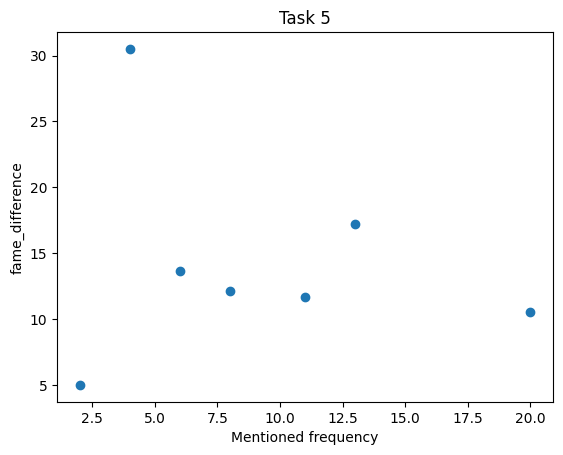
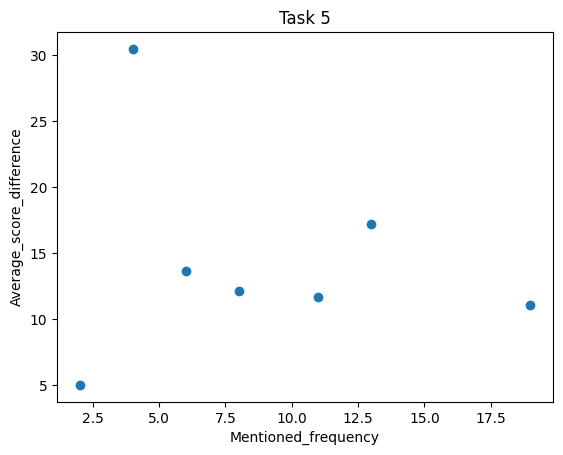
2

diff --git a/main.py b/main.py
@@ -15,6 +15,10 @@ task1_writer = csv.writer(task1)
 task1_writer.writerow(["url", "headline"])
 
 # ================ Task 2 setup ================ #
+# max rugby score is 356
+highest_possible_rugby_score = 356
+# impossible score under rugby rule, see report for prove
+impossible_score = [1,2,4]
 task2 = open("task2.csv", 'w', newline='')
 task2_writer = csv.writer(task2)
 task2_writer.writerow(["url", "headline", "team", "score"])
@@ -83,19 +87,29 @@ while to_visit:
             last_team_index = index
     # save all scores appeared in webpage
     results = score_pattern.findall(article)
+    # check the validity of the score
+    scores = []
+    for score in results:
+        score = re.sub('\s', '', score)
+        t1 = int(score[0:score.find('-')])
+        t2 = int(score[score.find('-') + 1:len(score)])
+        # Check if the score is valid
+        if t1 <= highest_possible_rugby_score and t2 <= highest_possible_rugby_score and t1 not in impossible_score \
+                and t2 not in impossible_score:
+            scores.append([t1, t2])
+
     # find the best score for team 1
     largest_match_score = ""
     largest_sum = -1
     difference = -1
     # if the page is considered valid with team name and score
-    if first_mentioned_team != '' and len(results) > 0:
+    if first_mentioned_team != '' and len(scores) > 0:
         # increase the mention frequency counter by one
         mention_freq[first_mentioned_team] = mention_freq[first_mentioned_team] + 1
-        for score in results:
-            score = re.sub('\s', '', score)
+        for score in scores:
             # extract two scores
-            t1 = int(score[0:score.find('-')])
-            t2 = int(score[score.find('-') + 1:len(score)])
+            t1 = score[0]
+            t2 = score[1]
             # task 2
             if t1 + t2 > largest_sum:
                 largest_match_score = score
@@ -106,7 +120,8 @@ while to_visit:
             game_difference[first_mentioned_team] = [0, 0]
         game_difference[first_mentioned_team][0] += difference
         game_difference[first_mentioned_team][1] += 1
-        task2_writer.writerow([link, headline, first_mentioned_team, largest_match_score])
+        task2_writer.writerow([link, headline, first_mentioned_team, str(largest_match_score[0]) + "-" +
+                               str(largest_match_score[1])])
 
     # mark the item as visited, i.e., add to visited list, remove from to_visit
     visited[link] = True
@@ -131,17 +146,17 @@ frequency_data = pd.DataFrame({'frequency': mention_freq_series})
 frequency_data = frequency_data.sort_values(by='frequency', ascending=False).head(5)
 plt.xticks(rotation='vertical')
 plt.bar(frequency_data.index, frequency_data['frequency'])
-plt.xlabel('Team name')
-plt.ylabel('Mentioned frequency')
+plt.xlabel('Team_name')
+plt.ylabel('Mentioned_frequency')
 plt.title("Task 4")
 plt.savefig("task4.png", bbox_inches='tight')
 plt.clf()
 # Task 5 plot
 game_difference_series = pd.Series(game_difference)
-frequency_score_data = pd.DataFrame({'frequency':mention_freq_series , 'score difference':game_difference_series})
-plt.scatter(frequency_score_data['frequency'], frequency_score_data['score difference'])
-plt.xlabel('Mentioned frequency')
-plt.ylabel('fame_difference')
+frequency_score_data = pd.DataFrame({'Mentioned_frequency': mention_freq_series, 'Average_score_difference': game_difference_series})
+plt.scatter(frequency_score_data['Mentioned_frequency'], frequency_score_data['Average_score_difference'])
+plt.xlabel('Mentioned_frequency')
+plt.ylabel('Average_score_difference')
 plt.title("Task 5")
 plt.savefig("task5.png", bbox_inches='tight')
 

diff --git a/test.py b/test.py
@@ -1,0 +1,15 @@
+rainbow = []
+max = 357
+for nana in range(0, max//7):
+    for go in range(0, max//5):
+        num1 = nana*7+go*5
+        if num1 > max:
+            break
+        for san in range(0, max//3):
+            num2 = num1 + san*3
+            if num2 < max and num2 not in rainbow:
+                rainbow.append(num2)
+print(sorted(rainbow))
+print(len(rainbow))
+
+
